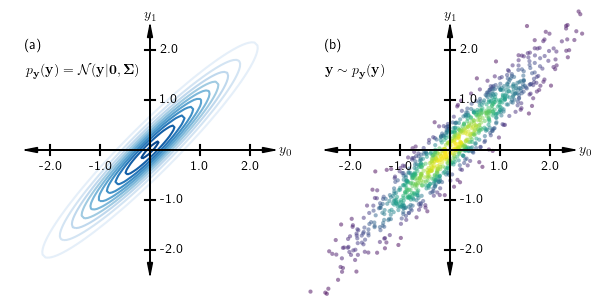
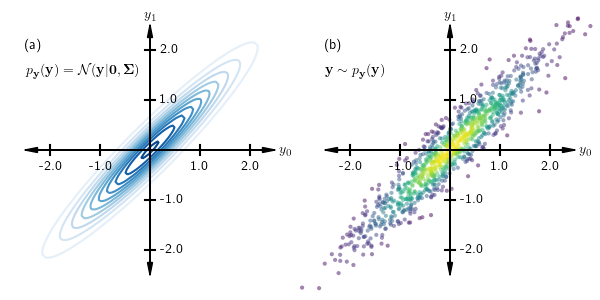
added plots for the banana distribution

Changed region(s): [[0.51, 0.03, 0.99, 0.99]]

diff --git a/docs/searchindex.js b/docs/searchindex.js
@@ -1,1 +1,1 @@
-Search.setIndex({docnames:["index","normalizingFlows/1Dexample","normalizingFlows/2DexampleList","normalizingFlows/2Dexamples/example1","normalizingFlows/changeofvariables","normalizingFlows/math","usage/installation"],envversion:{"sphinx.domains.c":2,"sphinx.domains.changeset":1,"sphinx.domains.citation":1,"sphinx.domains.cpp":3,"sphinx.domains.index":1,"sphinx.domains.javascript":2,"sphinx.domains.math":2,"sphinx.domains.python":3,"sphinx.domains.rst":2,"sphinx.domains.std":2,sphinx:56},filenames:["index.rst","normalizingFlows/1Dexample.rst","normalizingFlows/2DexampleList.rst","normalizingFlows/2Dexamples/example1.rst","normalizingFlows/changeofvariables.rst","normalizingFlows/math.rst","usage/installation.rst"],objects:{},objnames:{},objtypes:{},terms:{"0":[1,3,4],"1":[1,3,4],"1d":[0,5],"2":3,"2d":[0,3,5],"3":1,"3y":1,"4":1,"95":3,"case":[3,4],"function":[1,3,4],"import":[2,3,4],"while":3,A:3,As:4,For:1,In:3,Such:4,The:[1,3,5],abl:4,abov:1,absolut:[1,3],all:[1,4],also:[1,3,4],an:3,ani:4,ar:[1,2,3,4],assum:4,b:3,background:0,banana:[2,5],becaus:2,becom:3,been:[2,3],begin:[3,4],below:1,bmatrix:[3,4],calcualt:3,calcul:[1,3,4],can:[1,3,4],cdot:4,chang:5,circumst:4,color:3,comput:3,contour:3,correspond:3,d:[2,4],defin:3,definit:[1,3],densiti:[1,3],depend:4,deriv:1,det:[1,3,4],detail:1,determin:[1,3,4],diagon:3,differ:3,difficult:4,discuss:3,distribut:[1,2,4,5],document:6,done:3,drawn:3,e:1,each:3,earlier:3,element:4,els:1,elsewher:1,end:[3,4],entir:3,equat:4,estiamt:3,everywher:1,exampl:[0,4,5],f:[1,3,4],f_0:4,f_1:4,f_:4,fig:3,first:3,flow:3,follow:[1,3],form:3,formula:5,frac:[1,3,4],from:[1,3],gaussian:[2,5],gener:4,given:[1,3,4],go:[1,3],ha:3,had:3,have:[1,2,3],here:2,i:1,independ:[1,3],index:0,indic:[1,3],inform:4,informaiton:3,instal:0,invers:[1,3],its:3,jacobian:[1,3,4],just:3,know:[3,4],later:3,ldot:4,left:[1,3,4],let:[1,3,4],look:[1,3,4],lower:3,make:4,map:[1,4],master:2,mathbb:[1,3,4],mathbf:[1,3,4],mathcal:3,mathemat:0,matrix:[1,3],mean:4,mention:1,modul:0,most:4,n:[2,3,4],nabla_:[1,3,4],need:1,normal:3,notic:4,now:[1,3,4],onc:2,onli:1,out:4,over:3,p_:3,page:0,partial:[1,3,4],pdf:[3,4],plane:3,plot:3,point:3,possibl:[1,3,4],product:3,q_:[1,3,4],q_y:[1,4],q_z:4,question:4,r:[1,3,4],random:4,rang:1,refer:1,regard:4,relationship:4,rememb:3,repres:[1,3,4],respect:1,result:2,right:[1,3,4],rightarrow:4,s:[1,4],sampl:3,search:0,section:4,shall:[1,2,3,4],should:[1,3],shown:[1,3],sigma:3,significantli:4,sim:3,similarli:4,simpl:[1,3,4,6],sinc:1,singl:1,some:[2,4,6],specif:3,standard:3,studi:2,subsequ:[2,4],support:3,sure:4,t:4,term:4,thankfulli:3,thi:[1,3,4,6],thu:[1,3],time:3,transform:[1,2,3],transpos:4,triangular:3,trivial:[1,2],turn:4,two:3,under:4,understand:4,uniform:[1,3],uniformli:1,upon:4,us:[3,4],valu:[1,3],variabl:[1,5],vdot:4,vector:4,veri:[1,3],visual:1,wai:3,we:[1,2,3,4],well:4,what:4,when:3,where:4,y:[1,3,4],y_0:[3,4],y_1:[3,4],y_:4,z:[1,3,4],z_0:[3,4],z_1:[3,4],z_:4},titles:["Welcome to normalizingFlows\u2019s documentation!","1D Example","2D examples","Gaussian to banana distributions","Mathematical background","Mathematical background","installation"],titleterms:{"1d":1,"2d":2,The:4,background:[4,5],banana:3,chang:4,content:[0,2,5],distribut:3,document:0,exampl:[1,2],formula:4,gaussian:3,indic:0,instal:6,mathemat:[4,5],normalizingflow:0,result:3,s:0,tabl:0,variabl:4,welcom:0}})
+Search.setIndex({docnames:["index","normalizingFlows/1Dexample","normalizingFlows/2DexampleList","normalizingFlows/2Dexamples/example1","normalizingFlows/changeofvariables","normalizingFlows/math","usage/installation"],envversion:{"sphinx.domains.c":2,"sphinx.domains.changeset":1,"sphinx.domains.citation":1,"sphinx.domains.cpp":3,"sphinx.domains.index":1,"sphinx.domains.javascript":2,"sphinx.domains.math":2,"sphinx.domains.python":3,"sphinx.domains.rst":2,"sphinx.domains.std":2,sphinx:56},filenames:["index.rst","normalizingFlows/1Dexample.rst","normalizingFlows/2DexampleList.rst","normalizingFlows/2Dexamples/example1.rst","normalizingFlows/changeofvariables.rst","normalizingFlows/math.rst","usage/installation.rst"],objects:{},objnames:{},objtypes:{},terms:{"0":[1,3,4],"1":[1,3,4],"1d":[0,5],"2":3,"2d":[0,3,5],"3":1,"3y":1,"4":1,"95":3,"case":[3,4],"function":[1,3,4],"import":[2,3,4],"while":3,A:3,As:4,For:1,In:3,Such:4,The:[1,3,5],abl:4,abov:1,absolut:[1,3],all:[1,4],also:[1,3,4],an:3,ani:4,ar:[1,2,3,4],assum:4,b:3,background:0,banana:[2,5],becaus:2,becom:3,been:[2,3],begin:[3,4],below:1,bmatrix:[3,4],calcualt:3,calcul:[1,3,4],can:[1,3,4],cdot:4,chang:5,circumst:4,color:3,comput:3,contour:3,correspond:3,d:[2,4],defin:3,definit:[1,3],densiti:[1,3],depend:4,deriv:1,det:[1,3,4],detail:1,determin:[1,3,4],diagon:3,differ:3,difficult:4,discuss:3,distribut:[1,2,4,5],document:6,don:3,done:3,dont:3,drawn:3,e:1,each:3,earlier:3,element:4,els:1,elsewher:1,end:[3,4],entir:3,equat:4,estiamt:3,everywher:1,exampl:[0,4,5],f:[1,3,4],f_0:4,f_1:4,f_:4,fig:3,first:3,flow:3,follow:[1,3],form:3,formula:5,frac:[1,3,4],from:[1,3],gaussian:[2,5],gener:4,given:[1,3,4],go:[1,3],ha:3,had:3,have:[1,2,3],henc:3,here:2,how:3,i:1,independ:[1,3],index:0,indic:[1,3],inform:4,informaiton:3,instal:0,invers:[1,3],its:3,jacobian:[1,3,4],just:3,know:[3,4],later:3,ldot:4,left:[1,3,4],let:[1,3,4],look:[1,3,4],lower:3,make:4,map:[1,3,4],master:2,mathbb:[1,3,4],mathbf:[1,3,4],mathcal:3,mathemat:0,matrix:[1,3],mean:4,mention:1,modul:0,most:4,n:[2,3,4],nabla_:[1,3,4],need:1,normal:3,notic:[3,4],now:[1,3,4],onc:2,onli:1,out:4,over:3,p_:3,page:0,partial:[1,3,4],pdf:[3,4],plane:3,plot:3,point:3,possibl:[1,3,4],product:3,q_:[1,3,4],q_y:[1,4],q_z:4,question:4,r:[1,3,4],random:4,rang:1,refer:1,regard:4,relationship:4,rememb:3,repres:[1,3,4],respect:1,result:2,right:[1,3,4],rightarrow:4,s:[1,4],sampl:3,search:0,section:4,shall:[1,2,3,4],should:[1,3],shown:[1,3],sigma:3,significantli:4,sim:3,similarli:4,simpl:[1,3,4,6],sinc:1,singl:1,some:[2,4,6],specif:3,standard:3,studi:2,subsequ:[2,4],support:3,sure:4,t:[3,4],term:4,thankfulli:3,thi:[1,3,4,6],thu:[1,3],time:3,transform:[1,2,3],transpos:4,triangular:3,trivial:[1,2],turn:4,two:3,under:4,understand:4,uniform:[1,3],uniformli:1,upon:4,us:[3,4],valu:[1,3],variabl:[1,5],vdot:4,vector:4,veri:[1,3],visual:1,wai:3,we:[1,2,3,4],well:4,what:4,when:3,where:4,y:[1,3,4],y_0:[3,4],y_1:[3,4],y_:4,yet:3,z:[1,3,4],z_0:[3,4],z_1:[3,4],z_:4},titles:["Welcome to normalizingFlows\u2019s documentation!","1D Example","2D examples","Gaussian to banana distributions","Mathematical background","Mathematical background","installation"],titleterms:{"1d":1,"2d":2,The:4,background:[4,5],banana:3,chang:4,content:[0,2,5],distribut:3,document:0,exampl:[1,2],formula:4,gaussian:3,indic:0,instal:6,mathemat:[4,5],normalizingflow:0,result:3,s:0,tabl:0,variabl:4,welcom:0}})

diff --git a/docs/normalizingFlows/2Dexamples/example1.html b/docs/normalizingFlows/2Dexamples/example1.html
@@ -271,6 +271,12 @@ distribution have been drawn and plotted.</span><a class="headerlink" href="#gau
 <p>In <a class="reference internal" href="#gaussian"><span class="std std-numref">Fig. 1</span></a> (a) the 2D Normal distribution has been plotted, while in <a class="reference internal" href="#gaussian"><span class="std std-numref">Fig. 1</span></a> (b), samples
 drawn from this distribution have been plotted. The color of each point corresponds to the value of the PDF at
 that point. In this case, we know the PDF for the Gaussian density at each point.</p>
+<div class="figure align-center" id="banana">
+<img alt="https://raw.githubusercontent.com/sankhaMukherjee/normalizingFlows/master/results/img/0001_banana.png" src="https://raw.githubusercontent.com/sankhaMukherjee/normalizingFlows/master/results/img/0001_banana.png" />
+<p class="caption"><span class="caption-number">Fig. 2 </span><span class="caption-text">The mapping of the points sampled in the gaussian distribution to the banana distribution. Notice
+that we don’t yet know the distribution of the banana distribution, and hence we dont know how
+to color the points yet.</span><a class="headerlink" href="#banana" title="Permalink to this image">¶</a></p>
+</div>
 </div>
 </div>
 

diff --git a/src/examples/banana-npy.py b/src/examples/banana-npy.py
@@ -135,6 +135,12 @@ def main():
         plt.axes([0,0,1,1], facecolor='None' ),
         plt.axes([0,0,1,1], facecolor='None' ),
     ]
+    for ax in axs:
+        for s in ['right', 'top', 'left', 'bottom']:
+            ax.spines[s].set_visible(False)
+            ax.set_xticks([])
+            ax.set_yticks([])
+            
     axs[1].scatter(z[:,0], z[:,1], marker='.', c = 'blue', alpha=0.1, edgecolors='none', zorder=20)
     axs[1].set_xlim([-4,4])
     axs[1].set_ylim([-12, 2])

diff --git a/myDocs/source/normalizingFlows/2Dexamples/example1.rst b/myDocs/source/normalizingFlows/2Dexamples/example1.rst
@@ -123,4 +123,17 @@ drawn from this distribution have been plotted. The color of each point correspo
 that point. In this case, we know the PDF for the Gaussian density at each point. 
 
 
+
+
+.. figure:: https://raw.githubusercontent.com/sankhaMukherjee/normalizingFlows/master/results/img/0001_banana.png
+       :align: center
+       :name: banana
+
+       The mapping of the points sampled in the gaussian distribution to the banana distribution. Notice
+       that we don't yet know the distribution of the banana distribution, and hence we dont know how
+       to color the points yet.
+
+
+
+
 .. _Gaussian Distribution: https://en.wikipedia.org/wiki/Multivariate_normal_distribution
